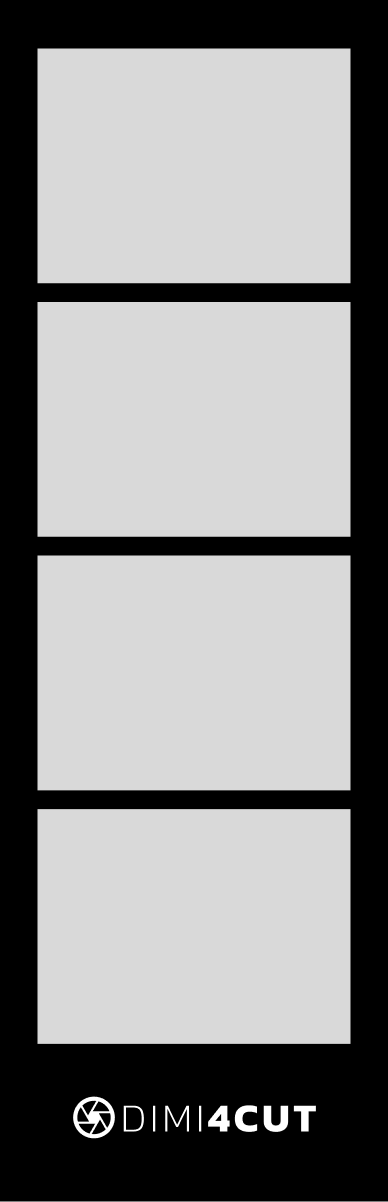
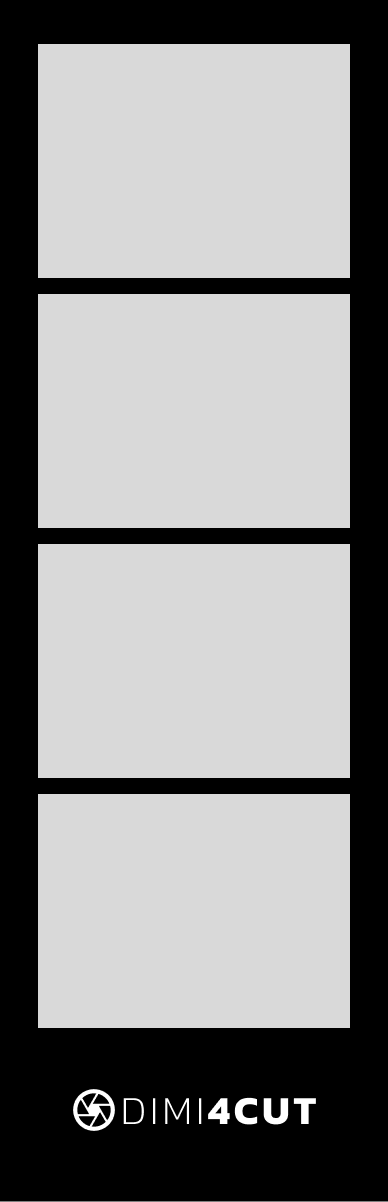
frame combine done

diff --git a/opencv/opencvtest.py b/opencv/opencvtest.py
@@ -2,10 +2,31 @@ import cv2
 import numpy as np
 import matplotlib.pyplot as plt
 
-image = cv2.imread('images/example1.jpg',cv2.IMREAD_COLOR) #불러오기
-image_rgb = cv2.cvtColor(image,cv2.COLOR_BGR2RGB) # 색입히기
+image1 = cv2.imread('images/example1.jpg')
+image2 = cv2.imread('images/example2.jpg')
+image3 = cv2.imread('images/example3.jpg')
+image4 = cv2.imread('images/example4.jpg')
+image_frame = cv2.imread('images/blackframe.png')
 
-cv2.imwrite('images/example1.jpg',image_rgb)
+# 이미지 크기를 맞춰줌
+image1_resized = cv2.resize(image1, (312, 234))
+image2_resized = cv2.resize(image2, (312, 234))
+image3_resized = cv2.resize(image3, (312, 234))
+image4_resized = cv2.resize(image4, (312, 234))
 
-plt.imshow(image_rgb);
-plt.show();
+# image_frame의 특정 영역에 이미지 덧씌우기
+x_offset1, y_offset1 = 38, 44
+image_frame[y_offset1:y_offset1 + image1_resized.shape[0], x_offset1:x_offset1 + image1_resized.shape[1]] = image1_resized
+
+x_offset2, y_offset2 = 38, 294
+image_frame[y_offset2:y_offset2 + image2_resized.shape[0], x_offset2:x_offset2 + image2_resized.shape[1]] = image2_resized
+
+x_offset3, y_offset3 = 38, 544
+image_frame[y_offset3:y_offset3 + image3_resized.shape[0], x_offset3:x_offset3 + image3_resized.shape[1]] = image3_resized
+
+x_offset4, y_offset4 = 38, 794
+image_frame[y_offset4:y_offset4 + image4_resized.shape[0], x_offset4:x_offset4 + image4_resized.shape[1]] = image4_resized
+
+# 결과 이미지를 Matplotlib을 통해 출력
+plt.imshow(cv2.cvtColor(image_frame, cv2.COLOR_BGR2RGB))
+plt.show()
